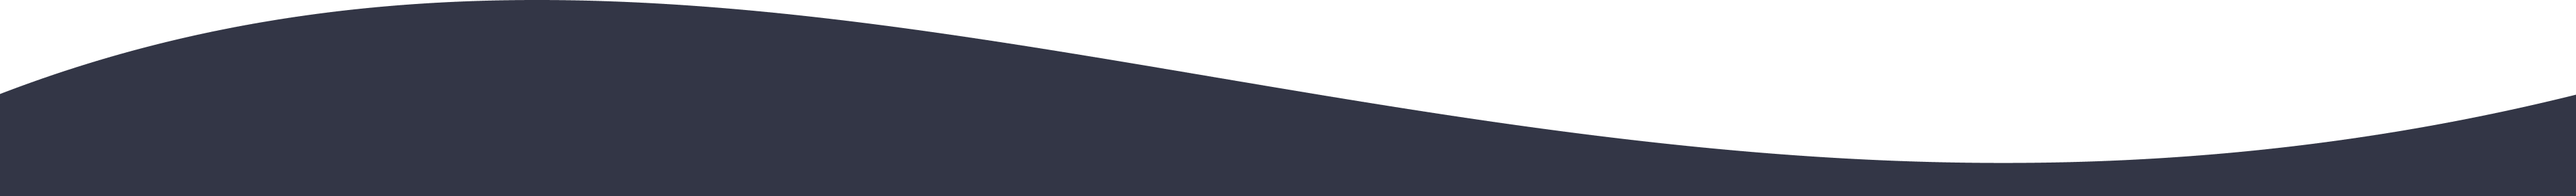
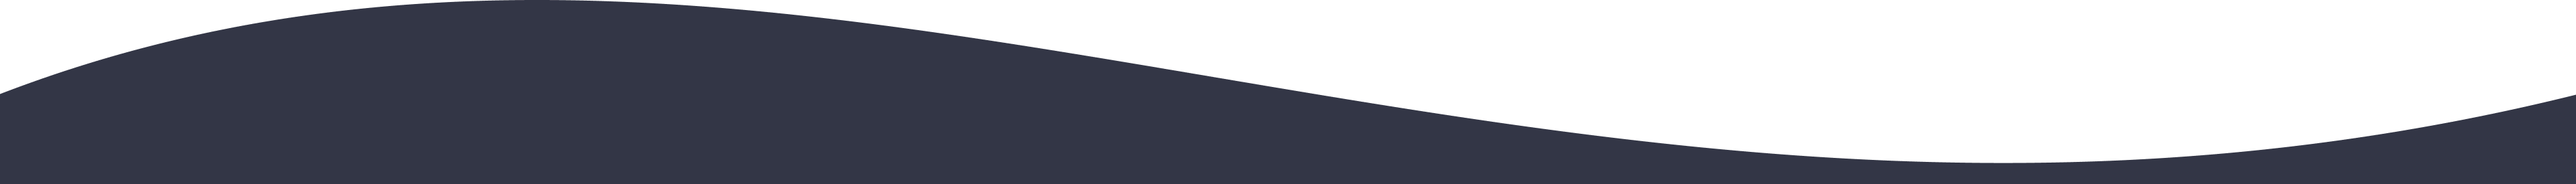
positioning

diff --git a/assets/css/main.css b/assets/css/main.css
@@ -213,10 +213,11 @@ a {
 /* Hero 1 */
 .hero_1 {
   width: 100%;
-  height: 130vh;
+  height: 101vh;
   position: absolute;
   background-color: var(--backgroundLight);
   display: flex;
+  flex-direction: column;
   justify-content: center;
   align-items: center;
   overflow-x: hidden;
@@ -230,7 +231,8 @@ a {
   max-height: 90vh;
   min-height: 50vh;
   flex-wrap: wrap;
-  margin-bottom: 30vh;
+  margin-top: auto;
+  justify-self: center;
 }
 
 /* About me */
@@ -342,8 +344,10 @@ a {
 
 .curve {
   width: 100%;
-  position: absolute;
-  bottom: -0.2%;
+  /* position: absolute; */
+  /* bottom: -0.2%; */
+  margin-top: auto;
+  margin-bottom: 0;
 }
 
 /* Projects */
@@ -353,7 +357,7 @@ a {
   flex-direction: column;
   justify-content: center;
   align-items: center;
-  margin-top: 30vh;
+  /* margin-top: 30vh; */
   overflow-x: hidden;
   overflow-y: hidden;
 }
@@ -615,7 +619,7 @@ button:hover {
   }
 
   .hero_1 {
-    height: 100vh;
+    height: 101vh;
   }
 
   .aboutAndSkillsContainer {
@@ -746,8 +750,8 @@ button:hover {
   }
 
   .hero_1 {
-    height: 180vh;
-    align-items: flex-start;
+    height: 181vh;
+    /* align-items: flex-start; */
   }
 
   .aboutAndSkillsContainer {
@@ -776,10 +780,6 @@ button:hover {
 
   .projects {
     margin-top: 80vh;
-  }
-
-  .curve {
-    top: 177vh;
   }
 
   .projectMockup {

diff --git a/index.html b/index.html
@@ -139,7 +139,7 @@
                     </div>
                 </div>
             </div>
-            <img src="./images/curve.png" alt="" class="curve">
+            <img src="./images/curve_edited.png" alt="" class="curve">
         </div>
         <!-- about me end -->
         <!-- projects start -->
